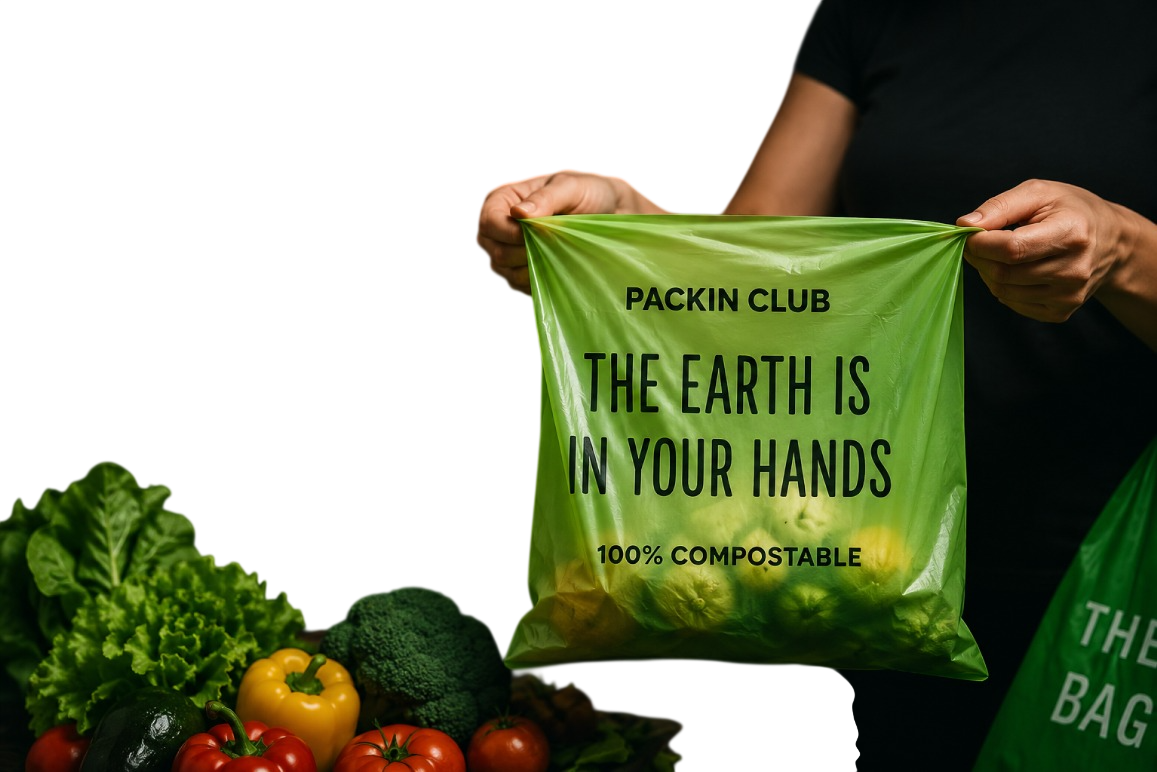
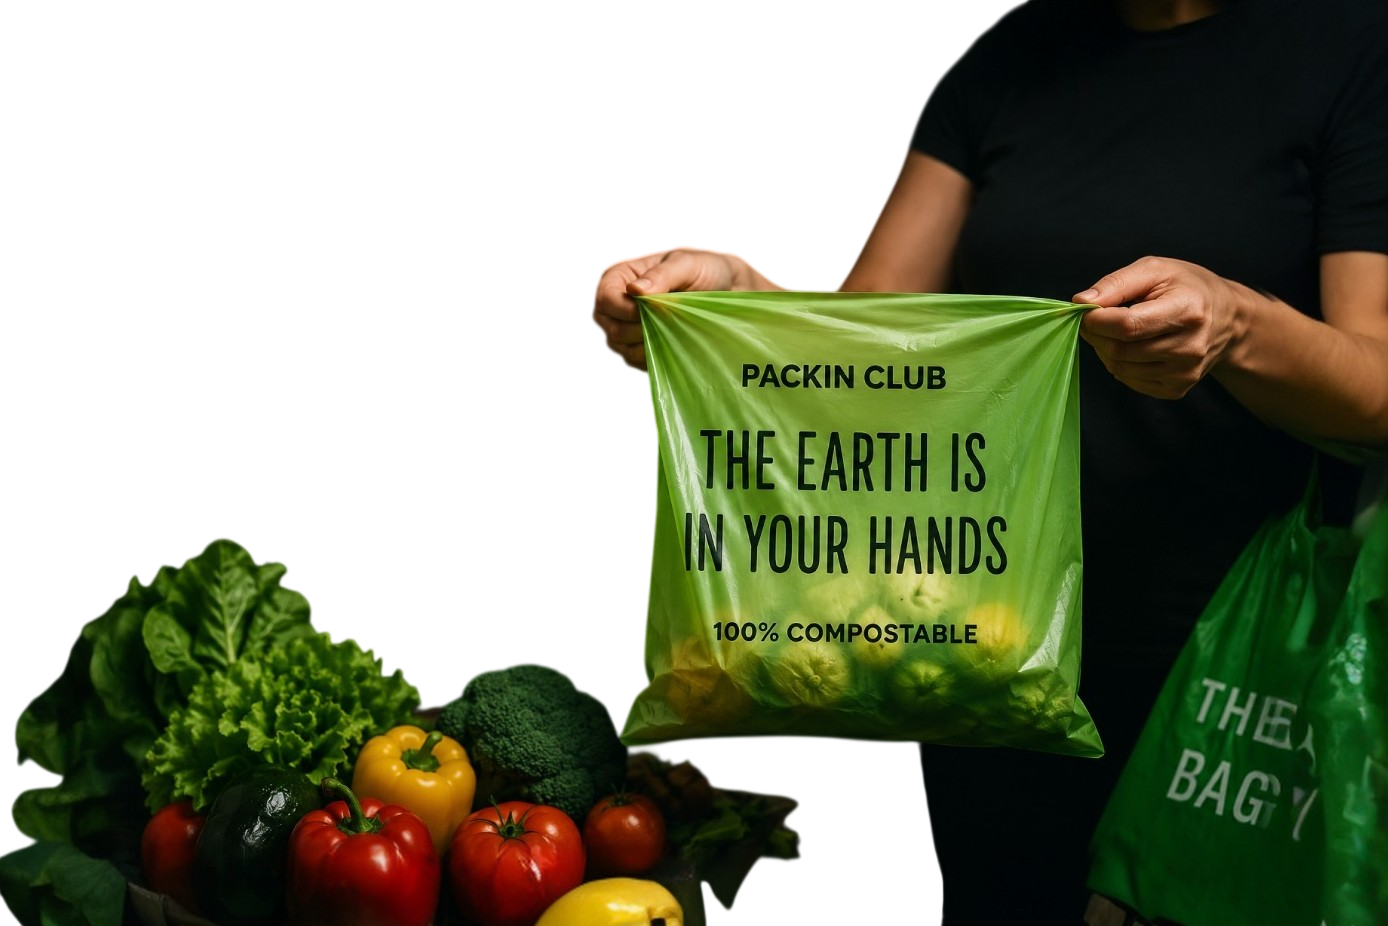
Fix hero image overflow on zoom

diff --git a/index.html b/index.html
@@ -62,7 +62,7 @@
     .pc-nav-desktop, .pc-cta-desktop { display: none !important; }
     .pc-burger { display: inline-flex !important; }
   }
-.pc-hero-media { position:absolute; top:50%; right:0; transform:translateY(-50%); width:56%; min-width:560px; max-width:820px; aspect-ratio:4/4.4; max-height:90%; overflow:hidden; z-index:1; }
+.pc-hero-media { position:absolute; top:0; bottom:0; right:0; width:56%; min-width:560px; max-width:820px; overflow:hidden; z-index:1; }
   .pc-hero-media img { width:100%; height:100%; object-fit:cover; object-position:center 0%; display:block; -webkit-mask-image:linear-gradient(to right,transparent 0%,#000 20%); mask-image:linear-gradient(to right,transparent 0%,#000 20%); }
   @media (max-width: 560px) {
     .pc-hero-media { display:none; }